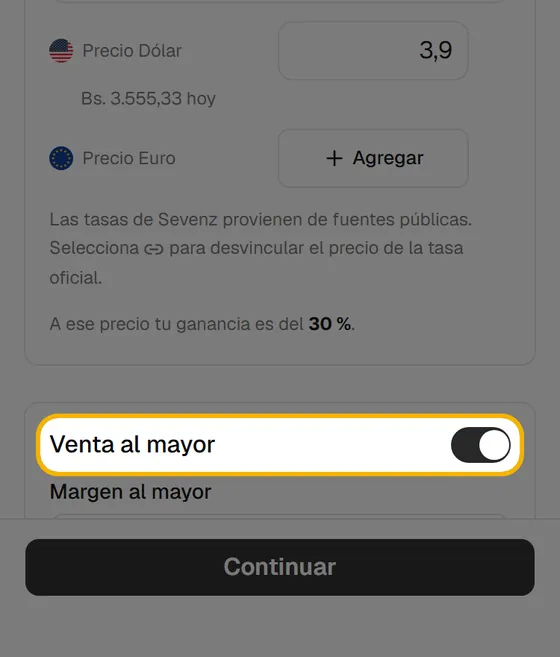
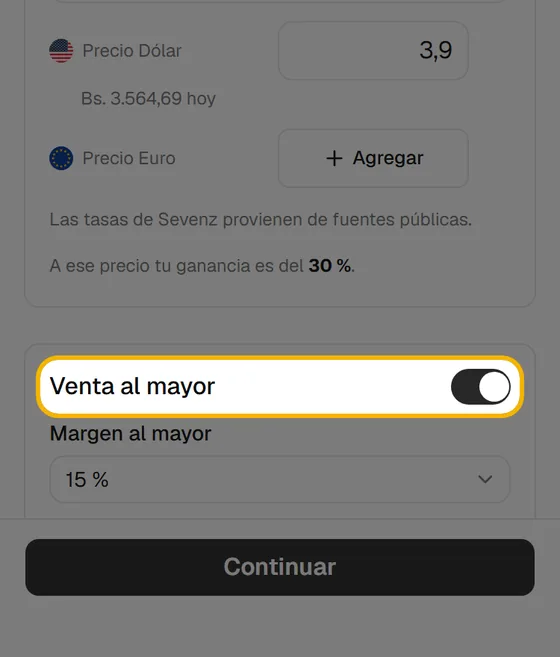
Ayuda, v0.9.0: el precio en otra moneda se escribe en su campo, «Editar» en el carrito, el cierre del mes y el margen en la moneda del costo
help-center-sync for dashboard v0.9.0:
- «Crear un producto»: the chain icon is gone, so the hint no longer tells to tap it; typing
  in the field pins the price and emptying it follows the rate again. Captures retaken from
  dev (the price step showed the old «Selecciona el vínculo…» sentence).
- Its note about creating a product inside a sale mentions «Editar» on the cart line.
- «Ver tus reportes»: the Inventario hint names last month's close, and a note says the
  margin is measured in the cost's currency.

Changed region(s): [[0.0607, 0.4871, 0.9411, 0.761], [0.0911, 0.3653, 0.8196, 0.4262], [0.2429, 0.1218, 0.3036, 0.1522]]

diff --git a/lib/soporte.ts b/lib/soporte.ts
@@ -537,7 +537,9 @@ export const TEMAS: Tema[] = [
       },
       {
         texto: "En [[Inventario]] ves cuántos productos tienes, cuáles están por agotarse y cuáles se agotaron.",
-        pista: "También el margen de cada producto, lo que más se vende y lo que más te devuelven.",
+        // v0.9.0: the «Cierre de …» card under «Margen por producto» (last month's sales and
+        // estimated profit). No picture of its own: it shows only once a month has closed.
+        pista: "También el margen de cada producto, el cierre del mes anterior con lo que vendiste y tu ganancia estimada, lo que más se vende y lo que más te devuelven.",
         imagen: "ver-tus-reportes/6",
       },
       {
@@ -569,6 +571,12 @@ export const TEMAS: Tema[] = [
         titulo: "El margen necesita el costo",
         texto:
           "Un producto sin costo no tiene margen. Si en Inventario o en Proveedores ves cifras raras, revisa que tus productos tengan su [[Costo unitario]].",
+      },
+      // v0.9.0, owner's rule of 2026-11-16: the margin is measured in the cost's currency.
+      {
+        titulo: "El margen se calcula en la moneda del costo",
+        texto:
+          "Es la moneda en la que inviertes. Si compras un producto en dólares y lo vendes en euros, su margen se calcula en dólares.",
       },
     ],
   },
@@ -617,7 +625,9 @@ export const TEMAS: Tema[] = [
       { texto: "Debajo te dice cuánto ganas de verdad a ese precio.", imagen: "crear-un-producto/9" },
       {
         texto: "Con [[Agregar]] le pones también precio en otra moneda.",
-        pista: "Se calcula con la tasa del día. Si quieres fijarlo a mano, toca el icono del vínculo para soltarlo de la tasa.",
+        // v0.9.0: the chain icon is gone. It said «toca el icono del vínculo para soltarlo de
+        // la tasa». Typing in the field pins the price; leaving it empty follows the rate again.
+        pista: "Se calcula con la tasa del día. Si quieres fijarlo a mano, escríbelo en su campo. Si después lo borras, vuelve a calcularse con la tasa.",
         imagen: "crear-un-producto/10",
       },
       {
@@ -661,7 +671,8 @@ export const TEMAS: Tema[] = [
       {
         titulo: "Puedes crearlo a mitad de una venta",
         texto:
-          "Si el cliente se lleva algo que no tenías cargado, en [[1/4 Producto]] de la venta pulsa [[Agregar producto]] y lo creas ahí mismo.",
+          // v0.9.0: «Editar» on the cart line of a product created in that sale.
+          "Si el cliente se lleva algo que no tenías cargado, en [[1/4 Producto]] de la venta pulsa [[Agregar producto]] y lo creas ahí mismo. Si te equivocaste en el nombre o en el precio, en el carrito pulsa [[Editar]] en ese producto y lo corriges.",
       },
       // The duplicate-name warning (CT-178, v0.8.0). A note and not a step: it only comes
       // up when the name is already in the catalogue. No picture for the same reason.
